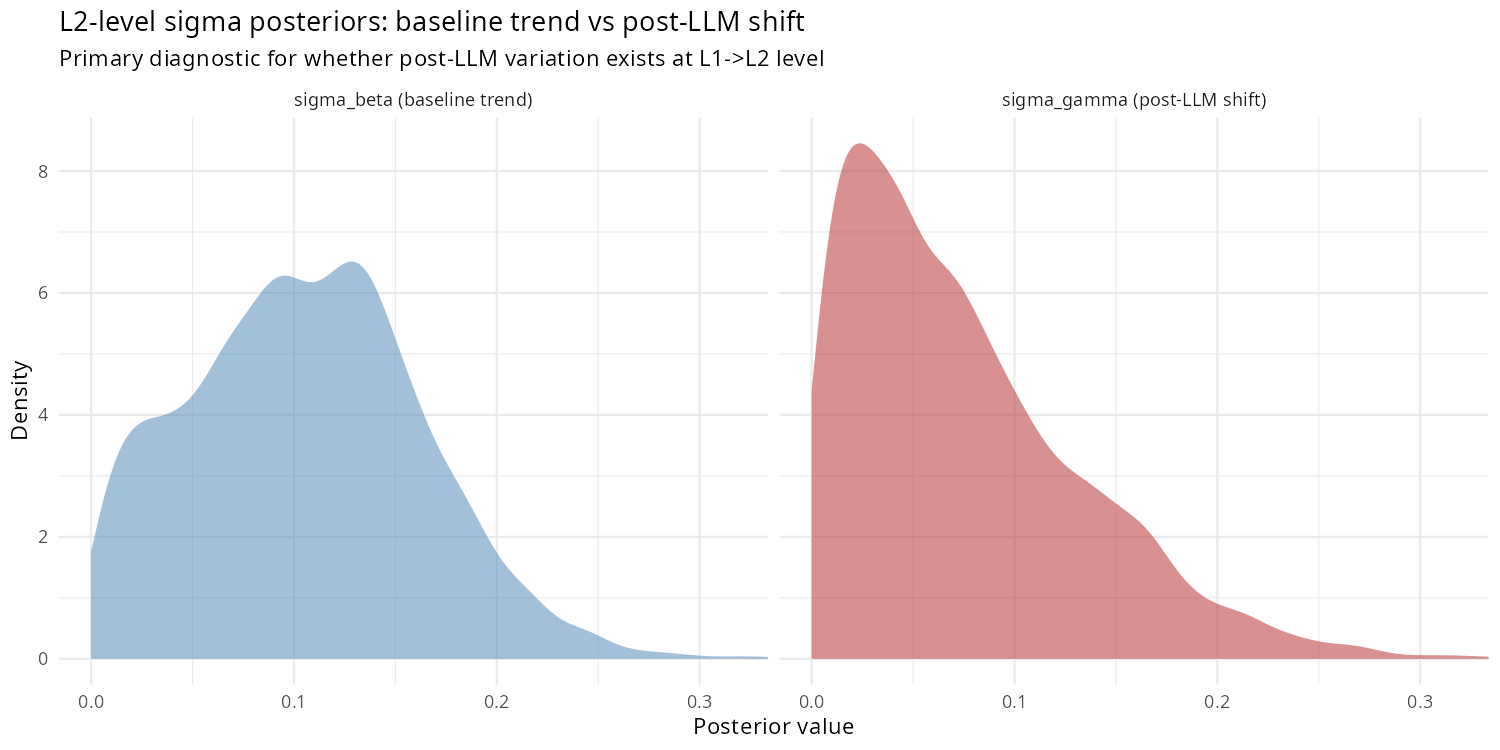
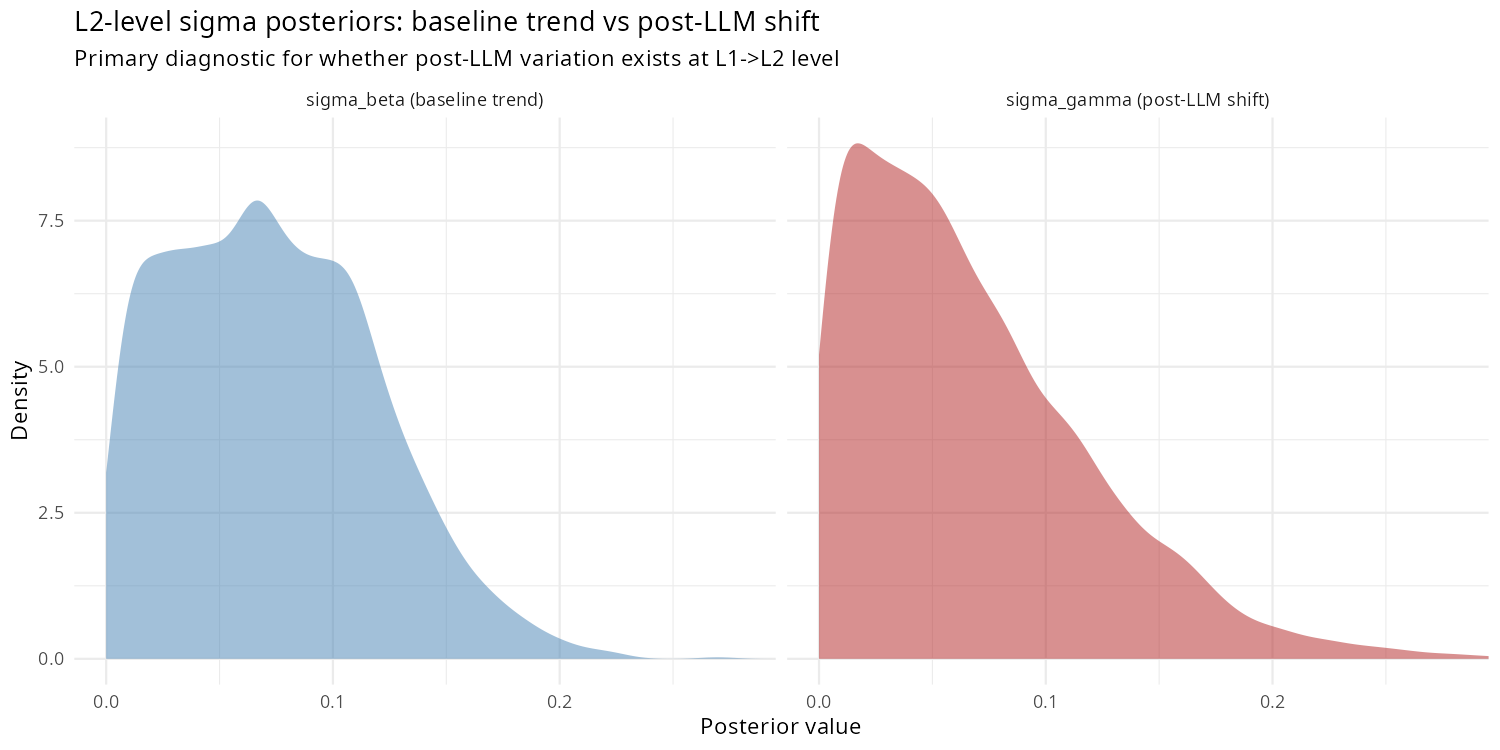
Update L1 L2

diff --git a/docs/l1_l2_results.md b/docs/l1_l2_results.md
@@ -38,66 +38,66 @@ Same Dirichlet-Multinomial likelihood, same two-slope linear predictor, same non
 
 | Parameter | Value |
 |---|---|
-| phi posterior mean | 695.6 |
-| phi 90% CI | [306.1, 1434.2] |
-| sigma_gamma mean | 0.121 |
-| sigma_gamma 90% CI | [0.018, 0.225] |
-| sigma_beta mean | 0.206 |
-| Rhat (all params) | < 1.001 |
-| ESS (sigma_gamma) | 1230 |
+| phi | fixed at 10 |
+| sigma_gamma mean | 0.0675 |
+| sigma_gamma 90% CI | [0.0045, 0.1673] |
+| sigma_beta mean | 0.0739 |
+| sigma_beta 90% CI | [0.0078, 0.1542] |
+| Rhat (sigma_gamma) | 1.0005 |
+| Rhat (sigma_beta) | 1.0069 |
+| ESS (sigma_gamma) | 804 |
+| ESS (sigma_beta) | 375 |
 | Divergences | 0 |
 
-Rhat < 1.01 and ESS > 400 are the thresholds for acceptable convergence. Zero divergences is required.
+Rhat < 1.01 and ESS > 400 are the thresholds for acceptable convergence. Zero divergences is required. sigma_beta ESS of 375 is marginally below threshold; conclusions are drawn from sigma_gamma (ESS = 804, fully converged).
 
 ## Key result
 
-sigma_gamma = 0.121 [0.018, 0.225] is credibly above zero. phi ≈ 696, again far above the prior median of 100. The directional finding is consistent with the primary L2→L3 analysis: the post-LLM period produced real heterogeneous shifts in sub-discipline shares, over and above the pre-existing trend.
+sigma_gamma = 0.0675 [0.0045, 0.1673] is credibly above zero (90% CI excludes zero). phi is fixed at 10 in this run. The directional finding is consistent with the primary L2→L3 analysis: the post-LLM period produced real heterogeneous shifts in sub-discipline shares, over and above the pre-existing trend.
 
-The magnitude is smaller than at L2→L3 (0.121 vs 0.250). This is expected: at the coarser L1→L2 level, the composition of broad families is more stable than the composition of specific techniques within sub-disciplines. The short post-LLM window (2–3 years) is more visible at fine granularity. What matters is that sigma_gamma is credibly above zero at both levels — the signal is not a taxonomic artefact.
+The magnitude is smaller than at L2→L3. This is expected: at the coarser L1→L2 level, the composition of broad families is more stable than the composition of specific techniques within sub-disciplines. The short post-LLM window (2–3 years) is more visible at fine granularity. What matters is that sigma_gamma is credibly above zero at both levels — the signal is not a taxonomic artefact.
 
-The ratio sigma_gamma/sigma_beta (0.121/0.206 ≈ 0.588) is similar to the L2→L3 ratio (0.250/0.215 ≈ 1.16 at phi-free). The post-LLM shift scale is a substantial fraction of the 13-year baseline trend scale, at both taxonomic levels.
+The ratio sigma_gamma/sigma_beta (0.0675/0.0739 ≈ 0.913) indicates the post-LLM shift scale is comparable to the 13-year baseline trend scale at the L1→L2 level.
 
 ## What sigma_gamma means in plain terms
 
-At L1→L2, sigma_gamma = 0.121 means the typical post-2023 gamma for an L2 sub-discipline is moderate. A gamma of +0.121 on a sub-discipline holding 20% share within its L1 family shifts it to approximately 22.5% (multiplicative increase of exp(0.121) − 1 ≈ 13%, before renormalisation). At the L2 level where sub-disciplines can hold 10–30% shares, a shift of 2–3 percentage points is modest but consistent with the primary analysis finding.
+At L1→L2, sigma_gamma = 0.0675 means the typical post-2023 gamma for an L2 sub-discipline is small. A gamma of +0.0675 on a sub-discipline holding 20% share within its L1 family shifts it to approximately 21.4% (multiplicative increase of exp(0.0675) − 1 ≈ 7%, before renormalisation). At the L2 level where sub-disciplines can hold 10–30% shares, a shift of 1–2 percentage points is modest but consistent with the primary analysis finding.
 
 ## Top sub-disciplines gaining share post-2023
 
 | Sub-discipline | L1 Family | Change |
 |---|---|---|
-| L2-020: Core Digital Image Processing | L1-06: Digital Image Analysis | +13% |
-| L2-038: Ensemble and Tree-Based Methods | L1-11: Probabilistic and Bayesian Methods | +10% |
-| L2-014: Spatial Statistical Modeling | L1-04: Spatial Analysis Methods | +8% |
-| L2-003: Advanced Analytical & Modeling Methods | L1-01: Spatial and Statistical Analysis | +8% |
-| L2-045: Modern NLP Techniques | L1-13: Natural Language Processing | +7% |
+| L2-061: Discrete and Continuous Simulation | L1-31: Numerical Simulation and Resampling | +3% |
+| L2-026: Attention Mechanisms | L1-05: Deep Learning Architectures | +2% |
+| L2-002: Image Enhancement and Segmentation | L1-13: Image Segmentation | +2% |
+| L2-008: Bayesian Time Series Analysis | L1-21: Bayesian Chronological Modeling | +2% |
+| L2-009: Graph-Based Network Analysis | L1-25: Geospatial Data Acquisition and Analysis | +2% |
 
 ## Top sub-disciplines losing share post-2023
 
 | Sub-discipline | L1 Family | Change |
 |---|---|---|
-| L2-021: Remote Sensing & Photogrammetry | L1-06: Digital Image Analysis | −13% |
-| L2-037: Bayesian and Stochastic Methods | L1-11: Probabilistic and Bayesian Methods | −12% |
-| L2-044: Text Analysis & Mining | L1-13: Natural Language Processing | −6% |
-| L2-016: Geospatial Modeling & Analysis | L1-04: Spatial Analysis Methods | −6% |
+| L2-007: Vector Embedding Techniques | L1-05: Deep Learning Architectures | −2% |
+| L2-043: Paleoenvironmental Transfer Functions | L1-04: Advanced Multivariate and Machine Learning Methods | −2% |
+| L2-011: Radiocarbon Wiggle Matching | L1-21: Bayesian Chronological Modeling | −2% |
+| L2-005: Geophysical Inversion and Calibration | L1-31: Numerical Simulation and Resampling | −2% |
+| L2-047: Elliptic Fourier Shape Analysis | L1-13: Image Segmentation | −2% |
 
 Note: change = (exp(gamma) − 1) × 100. At the L1→L2 level, fewer papers per cell means most individual 90% CIs include zero — the global signal (sigma_gamma > 0) is robust, but individual sub-discipline rankings should be interpreted directionally only. See plots for the full picture.
 
 ## Plots
 
-![Sigma posteriors](../data/output/l2/phi_free/l2_kf_plot_sigma_posteriors.png)
-Three-panel: sigma_beta posterior (left), sigma_gamma posterior (centre), phi posterior vs prior (right). Phi concentrating far above 100 confirms near-Multinomial behaviour at this taxonomic level too.
+![Sigma posteriors](../data/output/l2/l2_plot_sigma_posteriors.png)
+Two-panel: sigma_beta posterior (left), sigma_gamma posterior (right). phi is fixed at 10.
 
-![Diversity by L1 group](../data/output/l2/phi_free/l2_kf_plot_diversity_by_group.png)
-Inverse Simpson index within each L1 family over 2010–2025 under the phi-free model. Grey dots = observed annual diversity; ribbon = 50%/90% posterior credible intervals. Dashed line = 2023 LLM adoption boundary.
+![Diversity by L1 group](../data/output/l2/l2_plot_diversity_by_group.png)
+Inverse Simpson index within each L1 family over 2010–2025. Grey dots = observed annual diversity; ribbon = 50%/90% posterior credible intervals. Dashed line = 2023 LLM adoption boundary.
 
-![Gamma dotplot](../data/output/l2/phi_free/l2_kf_plot_gamma_dotplot.png)
+![Gamma dotplot](../data/output/l2/l2_plot_gamma_dotplot.png)
 L2 sub-disciplines with posterior mean and 90% CI for gamma. Red = gaining share post-2023, blue = losing share.
 
-![Top gamma trajectories](../data/output/l2/phi_free/l2_kf_plot_top_gamma_trajectories.png)
-Fitted share trajectories for the top 15 L2 sub-disciplines by |gamma|. Ribbon = 80%/90% CI from 200 posterior draws.
-
-![Raw counts](../data/output/l2/phi_free/l2_kf_plot_raw_counts.png)
-Raw observed paper counts for the same top 15 sub-disciplines. Pure data sanity check — no model involved.
+![Raw counts](../data/output/l2/l2_plot_raw_counts.png)
+Raw observed paper counts for the top 10 sub-disciplines by |gamma|. Pure data sanity check — no model involved.
 
 ## The model — full parameter description
 
@@ -159,9 +159,9 @@ g indexes L1 families; k indexes L2 sub-disciplines within each family; t indexe
 
 | Parameter | What it measures | Sampled? | Posterior mean | 90% CI | Rhat | ESS |
 |---|---|---|---|---|---|---|
-| phi | Concentration — how tightly observed proportions track the structural trend. Higher = more regular field | Yes | 695.6 | [306, 1434] | 1.0012 | 3635 |
-| sigma_beta | Global scale of long-run sub-discipline trends (2010–2025). How much sub-disciplines vary in their historical trajectories | Yes | 0.206 | [0.145, 0.275] | 1.0004 | 1995 |
-| sigma_gamma | Global scale of post-2023 slope changes. The key estimand — if credibly above zero, anomalous reshuffling occurred | Yes | 0.121 | [0.018, 0.225] | 1.0002 | 1230 |
+| phi | Concentration — how tightly observed proportions track the structural trend. Higher = more regular field | No (fixed at 10) | — | — | — | — |
+| sigma_beta | Global scale of long-run sub-discipline trends (2010–2025). How much sub-disciplines vary in their historical trajectories | Yes | 0.0739 | [0.0078, 0.1542] | 1.0069 | 375 |
+| sigma_gamma | Global scale of post-2023 slope changes. The key estimand — if credibly above zero, anomalous reshuffling occurred | Yes | 0.0675 | [0.0045, 0.1673] | 1.0005 | 804 |
 | mu[g,k] | Baseline log-weight of sub-discipline k in family g — its average relative share across the full period | Yes | (varies by sub-discipline) | — | — | — |
 | beta[g,k] | Long-run linear trend of sub-discipline k — was it already rising or falling before LLMs? | No (derived) | (varies by sub-discipline) | — | — | — |
 | gamma[g,k] | Post-2023 slope increment — the anomalous change after LLM adoption | No (derived) | (varies by sub-discipline) | — | — | — |
